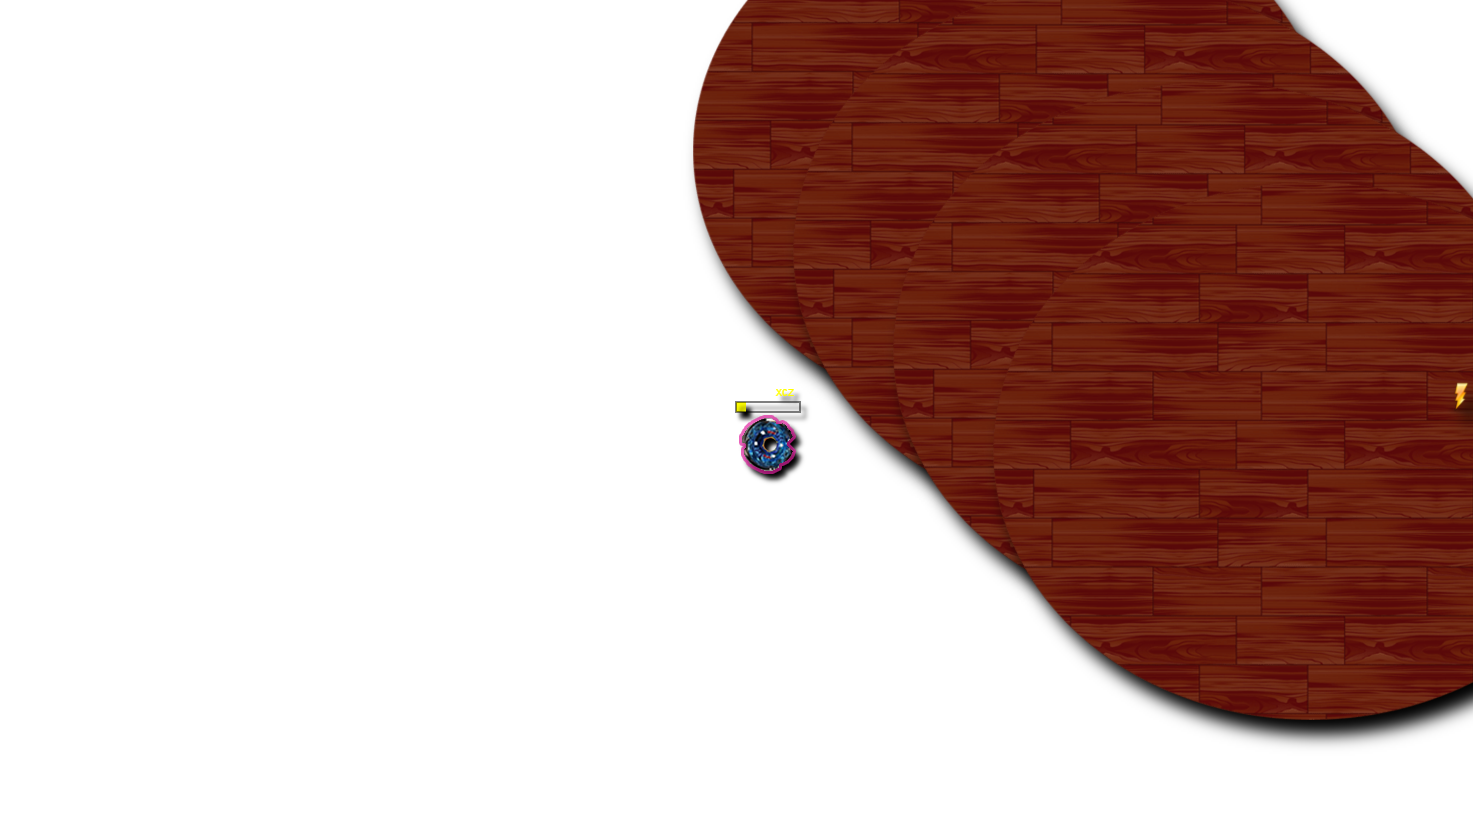
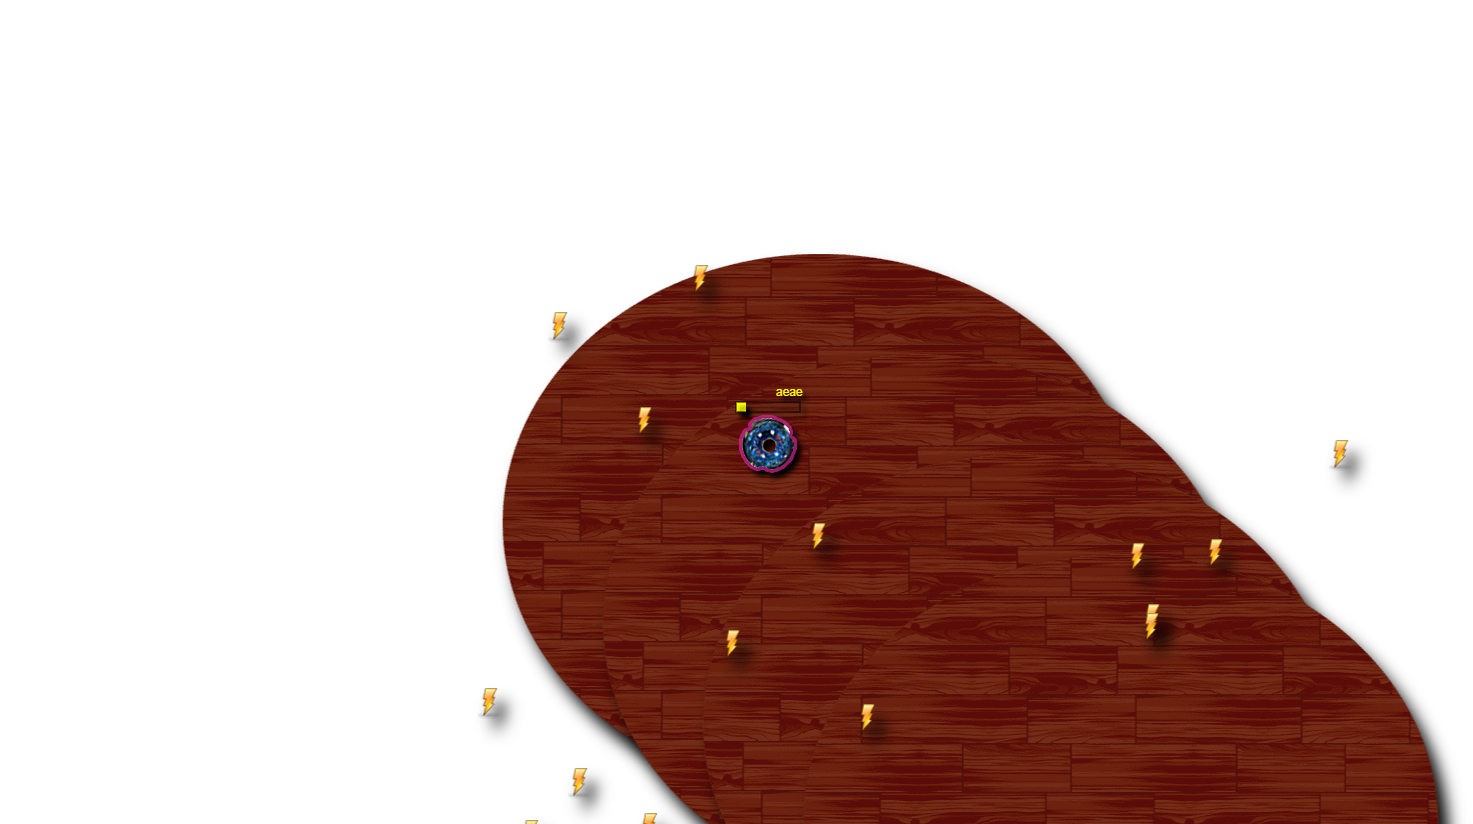
sdad

diff --git a/myblade3.0/www/js/render.js b/myblade3.0/www/js/render.js
@@ -13,13 +13,6 @@ mycSabit.width = window.innerWidth;
 mycSabit.height = window.innerHeight;
 
 
-var benimX = 0;
-var benimY = 0;
-var benimC = 0;
-var farkX = 0; //Benim X kordinatım ile ekranın tam ortasındaki X koordinatının farkı
-var farkY = 0; //Benim Y kordinatım ile ekranın tam ortasındaki Y koordinatının farkı
-var wx = 0;
-var wy = 0;
 
 
 
@@ -27,25 +20,14 @@ var topac = new Image();
 topac.src = "res/topac8.png";
 
 
-var zeminResim = new Image();
-zeminResim.src = "res/zeminResim-min.png";
-var gucResim = new Image();
-gucResim.src = "res/guc.png";
+var zeminRes = new Image();
+zeminRes.src = "res/zemin.png";
+var gucRes = new Image();
+gucRes.src = "res/guc.png";
+var hizRes = new Image();
+hizRes.src = "res/karakter.png";
 
-function nesne_Ciz(v){
-	ctx.shadowColor = "black";
-	ctx.shadowOffsetX = 10;
-	ctx.shadowOffsetY = 15;
-	ctx.shadowBlur = 25;
 
-	if (v.t == "z"){
-		ctx.drawImage(zeminResim, 0, 0, zeminResim.width, zeminResim.height, v.x+farkX, v.y+farkY, zeminResim.width, zeminResim.height);		
-	}
-	else if(v.t == "g"){
-		ctx.drawImage(gucResim, 0, 0, gucResim.width, gucResim.height, v.x+farkX, v.y+farkY, gucResim.width, gucResim.height);
-	}
-
-}
 
 
 function topaci_ekranda_ortala(){
@@ -139,16 +121,52 @@ function topac_Ciz(sid,sidBilgi){
 }
 
 
+function kaliciNesneCiz(kaliciNesneler){
+	c("Burası kullanıcı çiz");
 
+	c(kaliciNesneler);
+	
+	for (n in kaliciNesneler){
+
+
+		var x = kaliciNesneler[n].x;
+		var y = kaliciNesneler[n].y;
+		var t = kaliciNesneler[n].t;
+
+		if (t == "z"){
+			ctxSabit.drawImage(zeminRes, 0,0, zeminRes.width, zeminRes.height, x+farkX, y+farkY, zeminRes.width, zeminRes.height);
+		}
+		
+	}
+
+	for (n in kaliciNesneler){
+
+
+		var x = kaliciNesneler[n].x;
+		var y = kaliciNesneler[n].y;
+		var t = kaliciNesneler[n].t;
+
+		if (t == "g"){
+			ctxSabit.drawImage(gucRes, 0,0, gucRes.width, gucRes.height, x+farkX, y+farkY, gucRes.width, gucRes.height);
+		}
+		else if(t == "h"){
+			ctxSabit.drawImage(hizRes, 0,0, hizRes.width, hizRes.height, x+farkX, y+farkY, hizRes.width, hizRes.height);		
+		}
+
+	}
+}
 
 
 function render(data){
+	ctxSabit.clearRect(0,0, myc.width, myc.height);
 	ctx.clearRect(0,0, myc.width, myc.height);
+
+	c("Burasi Render");
+
+	kaliciNesneCiz(kaliciNesneler);
+
+
 	
-
-
-
-
 
 	if (data && data.oyuncular){
 
@@ -163,6 +181,7 @@ function render(data){
 		}
 		
 	}
+
 }
 
 

diff --git a/myblade3.0/www/server/oyun.js b/myblade3.0/www/server/oyun.js
@@ -9,14 +9,34 @@ const sinir_baslangic_Y = 0;
 const sinir_bitis_Y = 1000;
 
 
+const kaliciNesneler = [];
+
+function kaliciNesneEkle(t,x,y){
+	var o = {t:t, x:x, y:y}
+	kaliciNesneler.push(o);
+}
+
+
+for (var a=0; a<10; a++){
+	kaliciNesneEkle("g", Math.floor(Math.random() * 1000), Math.floor(Math.random()*1000));
+
+}
+for (var a=0; a<10; a++){
+	kaliciNesneEkle("h", Math.floor(Math.random() * 1000), Math.floor(Math.random()*1000));
+
+}
+for (var a=0; a<10; a++){
+	kaliciNesneEkle("z", Math.floor(Math.random() * 1000), Math.floor(Math.random()*1000));
+}
+
+
 
 
 const hersey = {
 	oyuncular: {},
 	nesne: []
-
 }
-var sabitZemin =  {ad: "zemin", x: 5, y:900, repeat: "repeat"}
+
 
 
 const io = require("socket.io").listen(3011);
@@ -47,14 +67,6 @@ function fps(){
 }
 
 
-function yeniSabit(x, y){
-	var z = {x:x, y:y}
-	hersey.sabitler.push(z);
-}
-function yeniNesne(t,x, y){
-	var z = {t:t, x:x, y:y}
-	hersey.nesne.push(z);
-}
 
 function yeniOyuncu(ad){
 	var o = {ad: "", x:0, y:0, k:0, a:0, wx:0, wy:0, h:baslangic_hizi, c:baslangic_cani, r:""}
@@ -71,22 +83,6 @@ function pf(d1){
 }
 
 
-//Yeni Zeminler
-yeniNesne("z", 20, 20);
-yeniNesne("z", 120, 120);
-yeniNesne("z", 220, 220);
-yeniNesne("z",320, 320);
-
-
-for(var g=0; g<30; g++){
-	yeniNesne("g", Math.floor(Math.random()*1000), Math.floor(Math.random()*1000));
-}
-
-
-
-
-
-
 
 
 io.on("connection", function(s){
@@ -96,6 +92,10 @@ io.on("connection", function(s){
 
 	s.on("ilkgiris", function(data){
 		hersey.oyuncular[s.id] = yeniOyuncu(data.ad);
+
+		s.emit("ilkgiris", {
+			kaliciNesneler: kaliciNesneler
+		});
 	});
 
 	s.on("tus", function(data){

diff --git a/myblade3.0/www/js/fonksiyonlar.js b/myblade3.0/www/js/fonksiyonlar.js
@@ -6,3 +6,16 @@ function cc(d){
 	c(d);
 	c("--------------------------------------------");	
 }
+
+
+
+
+
+var kaliciNesneler = [];
+var benimX = 0;
+var benimY = 0;
+var benimC = 0;
+var farkX = 0; //Benim X kordinatım ile ekranın tam ortasındaki X koordinatının farkı
+var farkY = 0; //Benim Y kordinatım ile ekranın tam ortasındaki Y koordinatının farkı
+var wx = 0;
+var wy = 0;

diff --git a/myblade3.0/www/js/istemci.js b/myblade3.0/www/js/istemci.js
@@ -12,14 +12,20 @@ $(document).ready(function(){
 	$(".isimsor").fadeIn(1500);
 
 
+
 	s.on("hersey", function(data){
-		c(data);
+
 		render(data);
 	});	
 
 	s.on("ilkgiris", function(data){
-		render(data);
+		kaliciNesneler = data.kaliciNesneler;
+		render(kaliciNesneler);
 	});
+
+
+
+
 
 });
 

diff --git a/myblade3.0/www/index.html b/myblade3.0/www/index.html
@@ -1,4 +1,4 @@
-<!DOCTYPE html>
+<!DOCTYPE html>
 <html>
 <head>
 	<title>Myblade.3.0</title>
